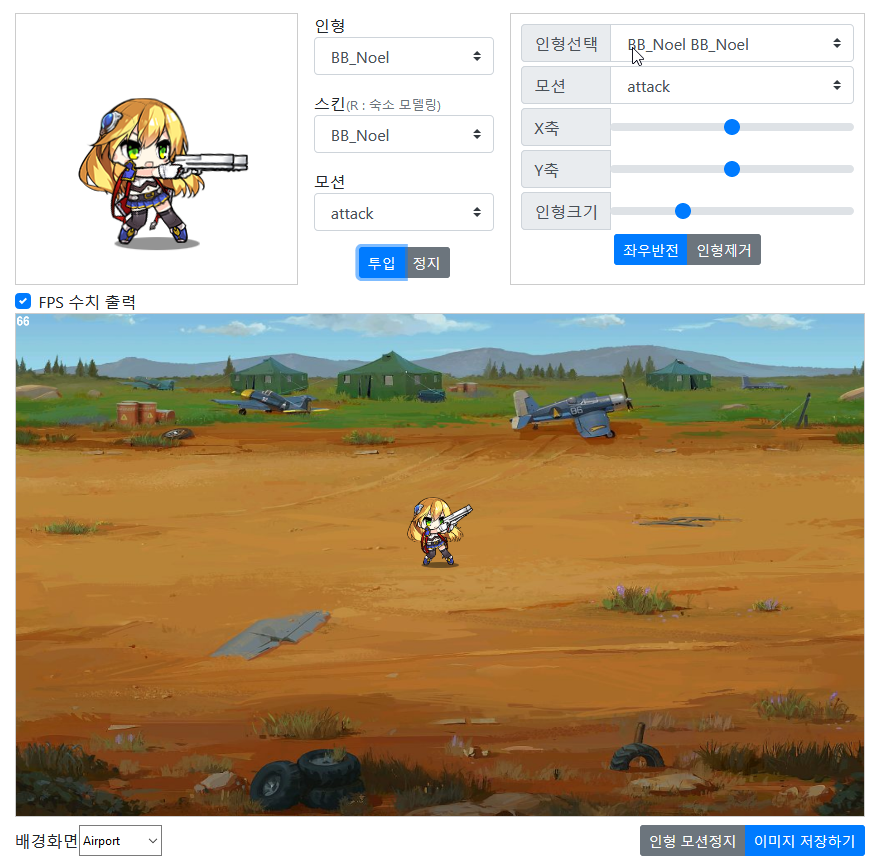
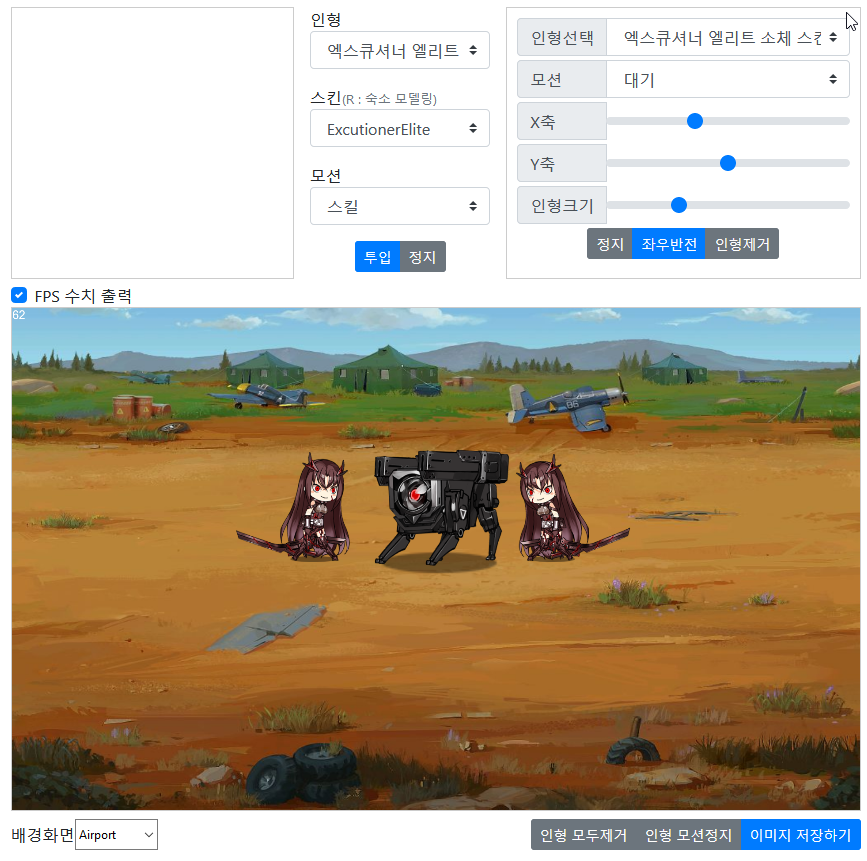
v1.8 preview img update/library update/Change the motion by clicking on SD Preview - library - pixijs 4.1.1->4.5.6

diff --git a/js/game.js b/js/game.js
@@ -41,7 +41,6 @@ var preview={
 		preview.stopRole=$(".preStopRole");
 		preview.addRole=$(".preAddRole");
 		preview.isUpdate=true;
-
 		var stringCharacter="<option>선택하세요</option>";
 		for(var type in girlsOptions){
 			stringCharacter+='<optgroup label="'+type+'">';
@@ -66,6 +65,7 @@ var preview={
 			}
 			preview.selectSkin.html(strSkinsOption);
 			preview.selectSkin.change();
+			preview.stage.interactive=true;
 		});
 
 		preview.selectSkin.change(function(){
@@ -94,7 +94,7 @@ var preview={
 
 		preview.selectScale=1;
 		preview.selectX=preview.canvas.width()*0.5;
-		preview.selectY=preview.canvas.height()*0.85
+		preview.selectY=preview.canvas.height()*0.85;
 
 		preview.stage=new PIXI.Container;
 		preview.renderer=PIXI.autoDetectRenderer(preview.canvas.width(),preview.canvas.height(),{transparent:true});
@@ -117,6 +117,7 @@ var preview={
 		var aniName=animations;
 		var stringAnimations="";
 		var anilength=animations.length;
+		var n,motion=[],nowSkin=0;
 		for (var i=0;i < anilength;i++){		
 			aniName[i].name=="attack"?aniName[i].name="공격":
 			aniName[i].name=="attack2"?aniName[i].name="보조공격":
@@ -150,8 +151,23 @@ var preview={
 		preview.changeAnimation(0);
 		preview.spine.skeleton.setToSetupPose();
 		preview.spine.update(0);
+		//preview.stage.children[0].state.tracks[0].animation.name
 		preview.spine.autoUpdate=false;
 		preview.stage.addChild(preview.spine);
+		var Canilength=preview.stage.children[0].state.data.skeletonData.animations.length;
+		for(var i=0;i<Canilength;i++){
+			motion.push(Object.values(preview.stage.children[0].state.data.skeletonData.animations[i])[0])
+		}
+		preview.stage.on('pointerdown', function(){
+			if(nowSkin>=Canilength){
+				preview.changeAnimation(0);
+				nowSkin=0
+			}else{
+				preview.changeAnimation(nowSkin);
+				nowSkin+=1
+			};
+			preview.selectAnimation.val(preview.stage.children[0].state.tracks[0].animation.name)
+    });
 	},
 
 	loadToStage:function(defaultStageData,spineData){
@@ -448,6 +464,6 @@ var gameview={
 	}
 }
 
-function onTouchStart(){
-console.log("hi")
+function onClick () {
+    console.log("hi")
 }

diff --git a/index.html b/index.html
@@ -99,7 +99,7 @@ alert("Internet Explorer 는 WebGL을 지원하지 않습니다.\nMicrosoft Edge
 </div>
 <script src="https://cdn.jsdelivr.net/npm/jquery@3.3.1/dist/jquery.min.js"></script>
 <script src="https://cdn.jsdelivr.net/npm/bootstrap@4.1.2/dist/js/bootstrap.bundle.min.js"></script>
-<script src="js/pixi/pixi.min.js"></script>
+<script src="https://cdn.jsdelivr.net/npm/pixi.js@4.5.6/dist/pixi.min.js"></script>
 <script src="js/pixi/pixi-spine.js"></script>
 <script src="js/girlsData.js"></script>
 <script src="js/girlsData-plus.js"></script>
